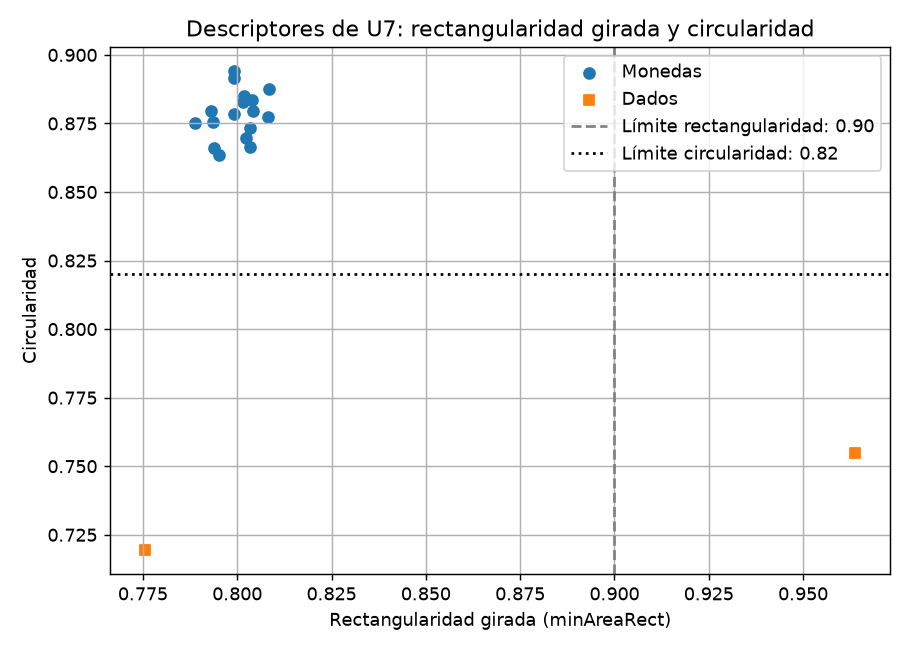
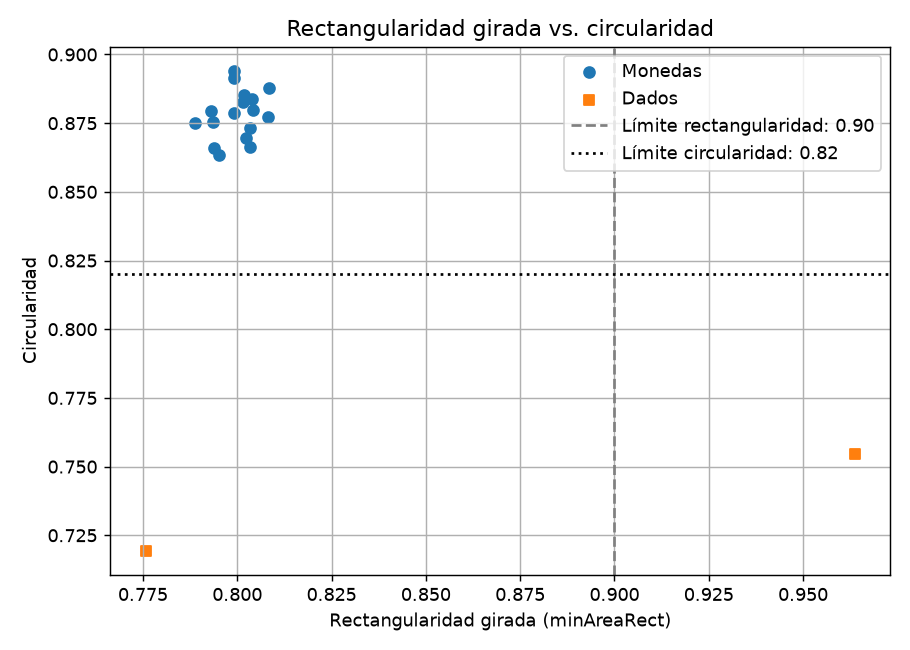
Actualizo titulo del grafico de descriptores

diff --git a/Problema1.py b/Problema1.py
@@ -255,7 +255,7 @@ plt.axvline(0.90, linestyle='--', color='gray', label='Límite rectangularidad: 
 plt.axhline(0.82, linestyle=':', color='black', label='Límite circularidad: 0.82')
 plt.xlabel('Rectangularidad girada (minAreaRect)')
 plt.ylabel('Circularidad')
-plt.title('Descriptores de U7: rectangularidad girada y circularidad')
+plt.title('Rectangularidad girada vs. circularidad')
 plt.legend()
 plt.grid(True)
 plt.tight_layout()
